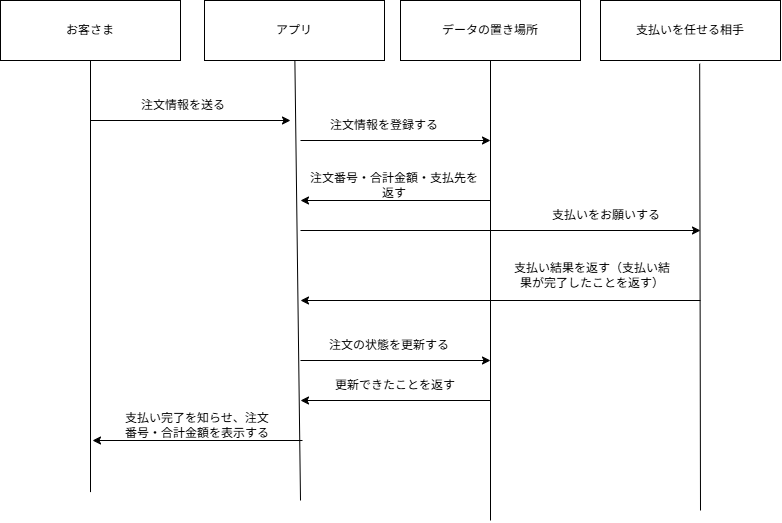
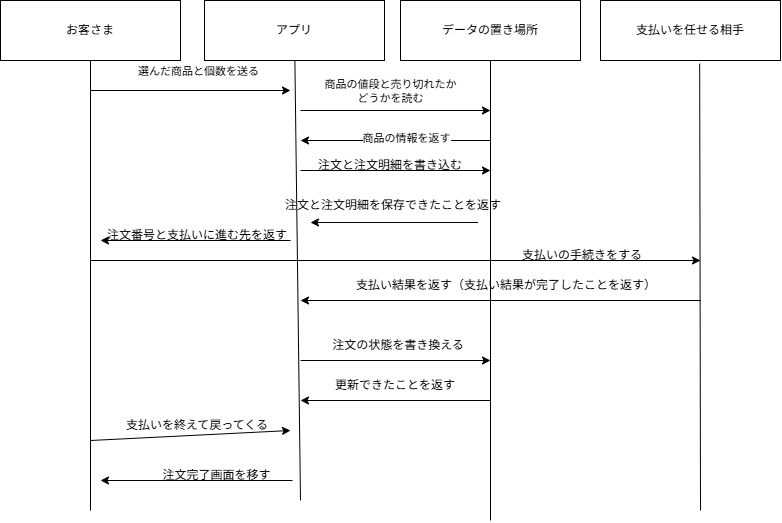
13-6: カフェのモバイルオーダーアプリのふるまいの設計を追加

diff --git a/docs/13-6/cafe-exceptions.md b/docs/13-6/cafe-exceptions.md
@@ -1,0 +1,10 @@
+# カフェ注文　例外一覧
+
+|起きること|どこで気づくか|その時の処置|利用者への知らせ|
+|----|-----|----|-----|
+|売り切れている|商品の値段と売り切れ状態を読み直すとき|やめて元に戻す|その商品が売り切れていることと、別の商品を選んでもらうことを伝える|
+|注文や注文明細の書き込み途中で失敗する|注文と注文明細を書き込むとき|やめて元に戻す|注文を受け付けられなかったことと、もう一度試してもらうことを伝える|
+|支払い完了の知らせが届かない|支払いの結果を待つとき|待って、決められた回数だけやり直す|支払い結果を確認できていないため、少し待ってほしいことを伝える|
+|入力された注文番号の注文が見つからない|注文の状況を確かめるとき|やめて元に戻す|注文番号が見つからないことを伝える|
+|店員が受け渡し済みにしようとした注文が、すでに取り消されている|店員が受け渡し済みにしようとしたとき|やめて元に戻す|その注文はすでに取り消されていることを伝える |
+|受け渡し済みの注文を、お客さまが取り消そうとする|注文を取り消すとき |やめて元に戻す|すでに受け渡し済みで、取り消せないことを伝える|

diff --git a/docs/13-2/cafe-question.md b/docs/13-2/cafe-question.md
@@ -15,3 +15,5 @@
 | Q-11 | 注文番号を知っている方なら注文状況を確認したり注文を取り消せる想定ですが、それで問題ないですか |  F-03・F-04| 未確認 |
 | Q-12 | 店員の方には、カウンターのタブレット1台を共通のアカウントでログインしていただく想定ですが、それで問題ないですか | F-05| 未確認 |
 | Q-13 | タブレットからの商品登録や、売り切れの状態の切り替えはこちらでデータをお預かりしてから行う想定ですが、店員の方がタブレット画面からご自身で操作できる必要はありますか？|
+| Q-14 | 注文の取り消しは、商品を受け取る前まで可能とする想定です。この認識でよろしいですか？ | F-04・F-05 | 未確認 |
+| Q-15 | 支払い結果が届かない場合、10秒待って5回まで確認し直す想定です。この待ち時間と回数でよろしいですか？| F-02 | 未確認 |

diff --git a/docs/13-6/cafe-state-table.md b/docs/13-6/cafe-state-table.md
@@ -1,0 +1,10 @@
+## カフェ注文  遷移表
+
+
+|今の状態|起きること|次の状態|条件|
+|----|-----|----|-----|
+|（注文がまだない）|お客さまが「支払いに進む」を押す|支払い待ち|-|
+|支払い待ち|支払い完了の知らせが届く|受け取り前|-|
+|支払い待ち|支払いが済まないまま終わる|取り消し済み|-|
+|受け取り前|お客さまが取り消す|取り消し済み|-|
+|受け取り前|店員が受け渡し済みにする|受け渡し済み|-|
